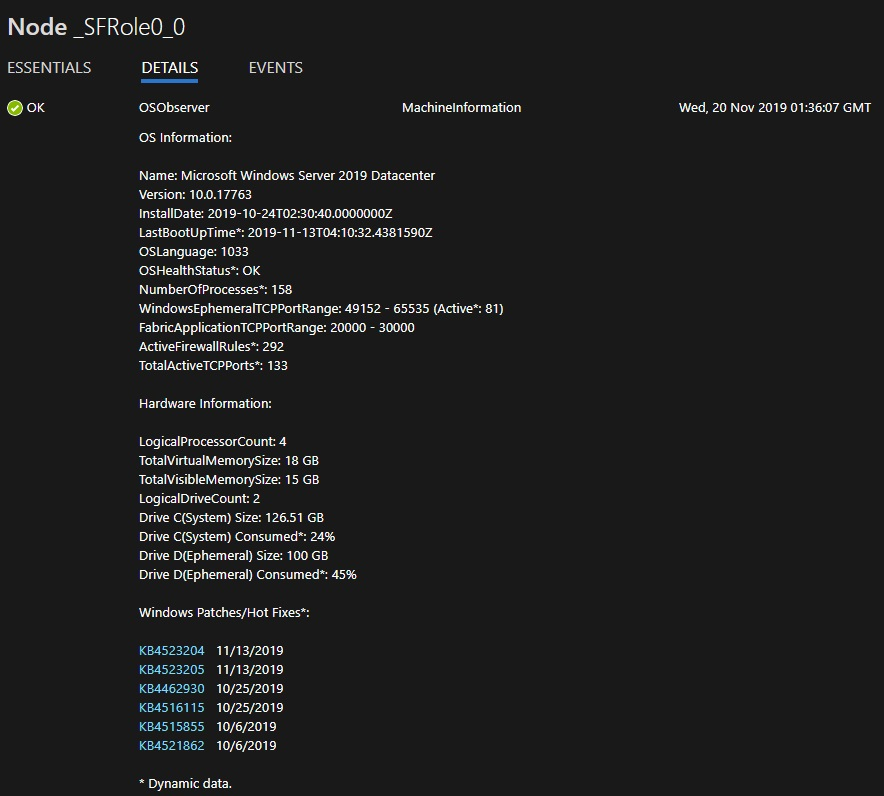
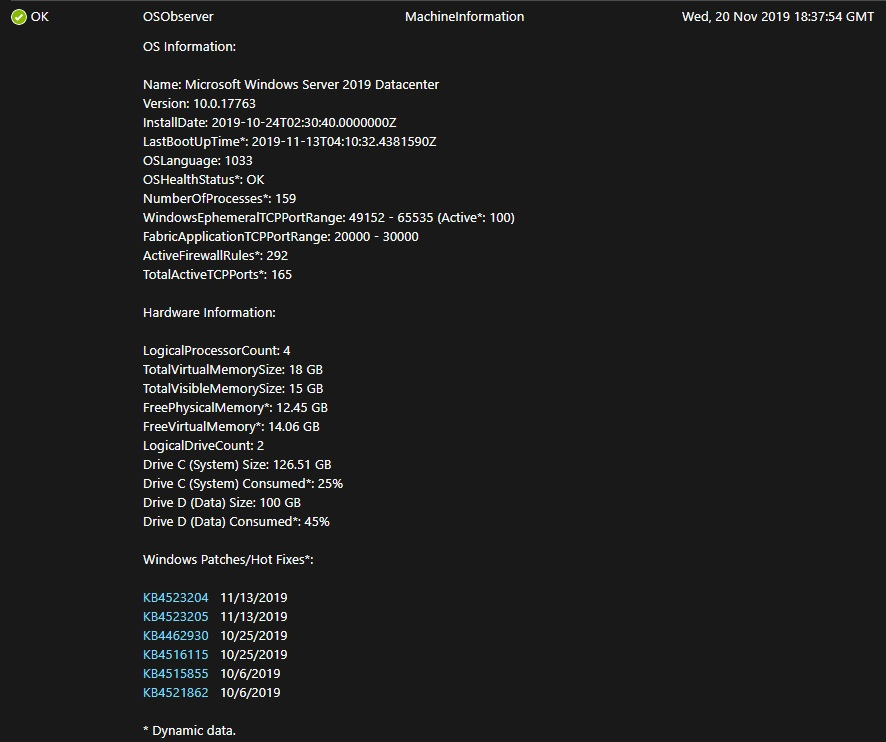
More dynamic data for OSObserver Output (SFX)

diff --git a/FabricObserver/Observers/OSObserver.cs b/FabricObserver/Observers/OSObserver.cs
@@ -217,9 +217,7 @@ namespace FabricObserver
 
             return ret;
         }
-        
-        // TODO: Dom't keep computing static info...
-        // Create a static piece of the osReport text. Only recompute the dynamic data (in another sb...)...
+
         private void GetComputerInfo(CancellationToken token)
         {
             ManagementObjectSearcher win32OSInfo = null;
@@ -243,6 +241,7 @@ namespace FabricObserver
             string hotFixes = string.Empty;
             string osLang = string.Empty;
             double freePhysicalMem = 0;
+            double freeVirtualMem = 0;
 
             try
             {
@@ -298,11 +297,6 @@ namespace FabricObserver
                         }
                         else if (name.ToLower().Contains("memory"))
                         {
-                            if (name.ToLower().Contains("freevirtual"))
-                            {
-                                continue;
-                            }
-
                             // For output...
                             int i = int.Parse(value) / 1024 / 1024;
 
@@ -319,23 +313,12 @@ namespace FabricObserver
                             {
                                 _ = double.TryParse(value, out freePhysicalMem);
                             }
+                            else if (name.ToLower().Contains("freevirtual"))
+                            {
+                                _ = double.TryParse(value, out freeVirtualMem);
+                            }
                         }
                     }
-                }
-
-                try
-                {
-                    // We only care about ready drives (so, things like an empty DVD drive are not interesting...)
-                    logicalDriveCount = DriveInfo.GetDrives().Where(d => d.IsReady).Count();
-                }
-                catch (ArgumentException)
-                {
-                }
-                catch (IOException)
-                {
-                }
-                catch (UnauthorizedAccessException)
-                {
                 }
 
                 // Active, bound ports...
@@ -393,25 +376,29 @@ namespace FabricObserver
                 }
 
                 // Hardware info...
+                // Proc/Mem
                 sb.AppendLine("\r\nHardware Information:\r\n");
                 sb.AppendLine($"LogicalProcessorCount: {logicalProcessorCount}");
                 sb.AppendLine($"TotalVirtualMemorySize: {totalVirtMem} GB");
                 sb.AppendLine($"TotalVisibleMemorySize: {this.totalVisibleMemoryGB} GB");
-                sb.AppendLine($"TotalFreeMemory*: {Math.Round(freePhysicalMem / 1024 / 1024, 2)} GB");
-                sb.AppendLine($"LogicalDriveCount: {logicalDriveCount}");
+                sb.AppendLine($"FreePhysicalMemory*: {Math.Round(freePhysicalMem / 1024 / 1024, 2)} GB");
+                sb.AppendLine($"FreeVirtualMemory*: {Math.Round(freeVirtualMem / 1024 / 1024, 2)} GB");
+
+                // Disk
                 var drivesInformation = diskUsage.GetCurrentDiskSpaceTotalAndUsedPercentAllDrives(SizeUnit.Gigabytes);
+                sb.AppendLine($"LogicalDriveCount: {drivesInformation.Count}");
 
                 foreach (var tuple in drivesInformation)
                 {
-                    string systemDrv = "Ephemeral";
+                    string systemDrv = "Data";
 
                     if (Environment.SystemDirectory.Substring(0, 1) == tuple.Item1)
                     {
                         systemDrv = "System";
                     }
 
-                    sb.AppendLine($"Drive {tuple.Item1}({systemDrv}) Size: {tuple.Item2} GB");
-                    sb.AppendLine($"Drive {tuple.Item1}({systemDrv}) Consumed*: {tuple.Item3}%");
+                    sb.AppendLine($"Drive {tuple.Item1} ({systemDrv}) Size: {tuple.Item2} GB");
+                    sb.AppendLine($"Drive {tuple.Item1} ({systemDrv}) Consumed*: {tuple.Item3}%");
                 }
 
                 string osHotFixes = GetWindowsHotFixes(token);
